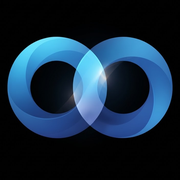
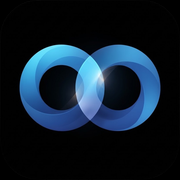
홈 화면 아이콘의 좌우 여백 확보 — 링 가로 92% → 78%
홈 화면에 추가했더니 로고가 좌우 가장자리에 붙어 답답하다는 지적(2026-10-11).
원인은 10-06에 쓴 방식이다: 둥근 모서리를 프레임 밖으로 내보내려고 60px을
잘라냈는데, 그만큼 확대되면서 링이 가로 92%까지 커져 좌우 여백이 4.1%만
남았다(아트워크 본래 여백은 11%).

이번 favicon 원본(design/favicon-source.png)은 **모서리가 투명**이라 자를
필요가 자체가 없다 — 검정 캔버스에 그대로 올리면 투명 모서리가 검정이 되어
full-bleed가 되고, 링은 본래 비율을 유지한다. 그래서 crop을 없애고 둥근
사각형을 캔버스에 꽉 채우는 방식으로 바꿨다.

실측: 링 가로 92% → 78%, 좌우 여백 4.1% → 10.9%. 테두리 전체에 밝은 픽셀
0개(흰 자국 없음), 네 모서리 (0,0,0).

이제 홈 화면 아이콘과 favicon이 같은 원본·같은 비율을 쓴다. 캐시 버전 ?v=5.
README에는 "모서리를 잘라 확대하지 말 것"을 이유와 함께 못 박아 뒀다 —
같은 실수를 반복하지 않도록.

Changed region(s): [[0.0278, 0.1944, 0.9722, 0.7778]]

diff --git a/app/layout.tsx b/app/layout.tsx
@@ -18,7 +18,7 @@ export const metadata: Metadata = {
   // 붙여 새로 받게 한다(2026-10-06 아이콘 교체, 배경 검정으로 재교체). 이미 홈 화면에 추가해 둔 바로가기는
   // 이걸로도 안 바뀌어서, 삭제하고 다시 추가해야 새 아이콘이 적용된다.
   icons: {
-    apple: "/apple-touch-icon.png?v=4",
+    apple: "/apple-touch-icon.png?v=5",
   },
 };
 

diff --git a/design/README.md b/design/README.md
@@ -4,25 +4,33 @@
 (1024×1024, 흰 배경 위에 **검은** 둥근 사각형, 2026-10-06 사용자 제공 — 확장자는
 .png지만 실제 포맷은 JPEG이다).
 
-실제로 배포되는 아이콘은 이 파일에서 다음과 같이 만든다:
+홈 화면·독 아이콘(apple-touch-icon, manifest의 192/512)은 **favicon과 같은
+원본**(`favicon-source.png`, 투명 배경 PNG)에서 만든다 — `app-icon-source.png`는
+2026-10-06까지 쓰던 JPEG 원본이라 기록용으로만 남겨둔다.
 
 ```python
 from PIL import Image
-src = Image.open("design/app-icon-source.png").convert("RGB")
-# 원본은 1024 캔버스 안에 흰 여백 102px + 둥근 사각형 820px 구조다.
-# 모서리 반경이 약 174px이라 곡선이 대각선으로 51px쯤 파고든다. 60px 더 안쪽을
-# 잘라 **둥근 모서리를 프레임 밖으로 내보낸다** — 홈 화면·독은 OS가 자기 모양으로
-# 깎으므로, 미리 둥근 이미지를 주면 모서리에 흰 자국이 남는다.
-base = src.crop((162, 162, 862, 862))
+src = Image.open("design/favicon-source.png").convert("RGBA")
+sq = src.crop(src.getchannel("A").getbbox())   # 투명 여백 제거 → 710x710 둥근 사각형
 
-base.resize((180, 180), Image.LANCZOS).save("public/apple-touch-icon.png", optimize=True)
-base.resize((192, 192), Image.LANCZOS).save("public/icon-192.png", optimize=True)
-base.resize((512, 512), Image.LANCZOS).save("public/icon-512.png", optimize=True)
-# ⚠ favicon.ico 안의 PNG는 반드시 RGBA — RGB면 Turbopack 빌드가
-#    "The PNG is not in RGBA format!"로 실패한다.
-base.convert("RGBA").save("app/favicon.ico",
-                          sizes=[(16,16),(32,32),(48,48),(64,64),(128,128),(256,256)])
+def render(n):
+    # 둥근 사각형을 캔버스에 꽉 채운다. 모서리가 투명이라 검정 위에 올리면
+    # 그대로 검정이 되어 full-bleed가 된다 — 잘라낼 필요가 없다.
+    canvas = Image.new("RGB", (n, n), (0, 0, 0))
+    s = sq.resize((n, n), Image.LANCZOS)
+    canvas.paste(s, (0, 0), s)
+    return canvas
+
+render(180).save("public/apple-touch-icon.png", optimize=True)
+render(192).save("public/icon-192.png", optimize=True)
+render(512).save("public/icon-512.png", optimize=True)
 ```
+
+⚠ **모서리를 잘라 확대하지 말 것.** 2026-10-06까지는 모서리 60px을 잘라
+full-bleed를 만들었는데, 그 바람에 링이 가로 92%까지 커져 좌우 여백이 4%밖에
+남지 않아 홈 화면에서 답답해 보였다(사용자 지적, 2026-10-11). 투명 모서리를
+가진 원본을 쓰면 자르지 않아도 full-bleed가 되고, 링은 아트워크 본래 비율
+(가로 78%, 좌우 여백 11%)을 유지한다.
 
 아이콘을 바꾸면 `public/manifest.json`의 `?v=` 숫자와
 `app/layout.tsx`의 `icons.apple` 쿼리도 함께 올려야 브라우저가 새로 받아간다.
